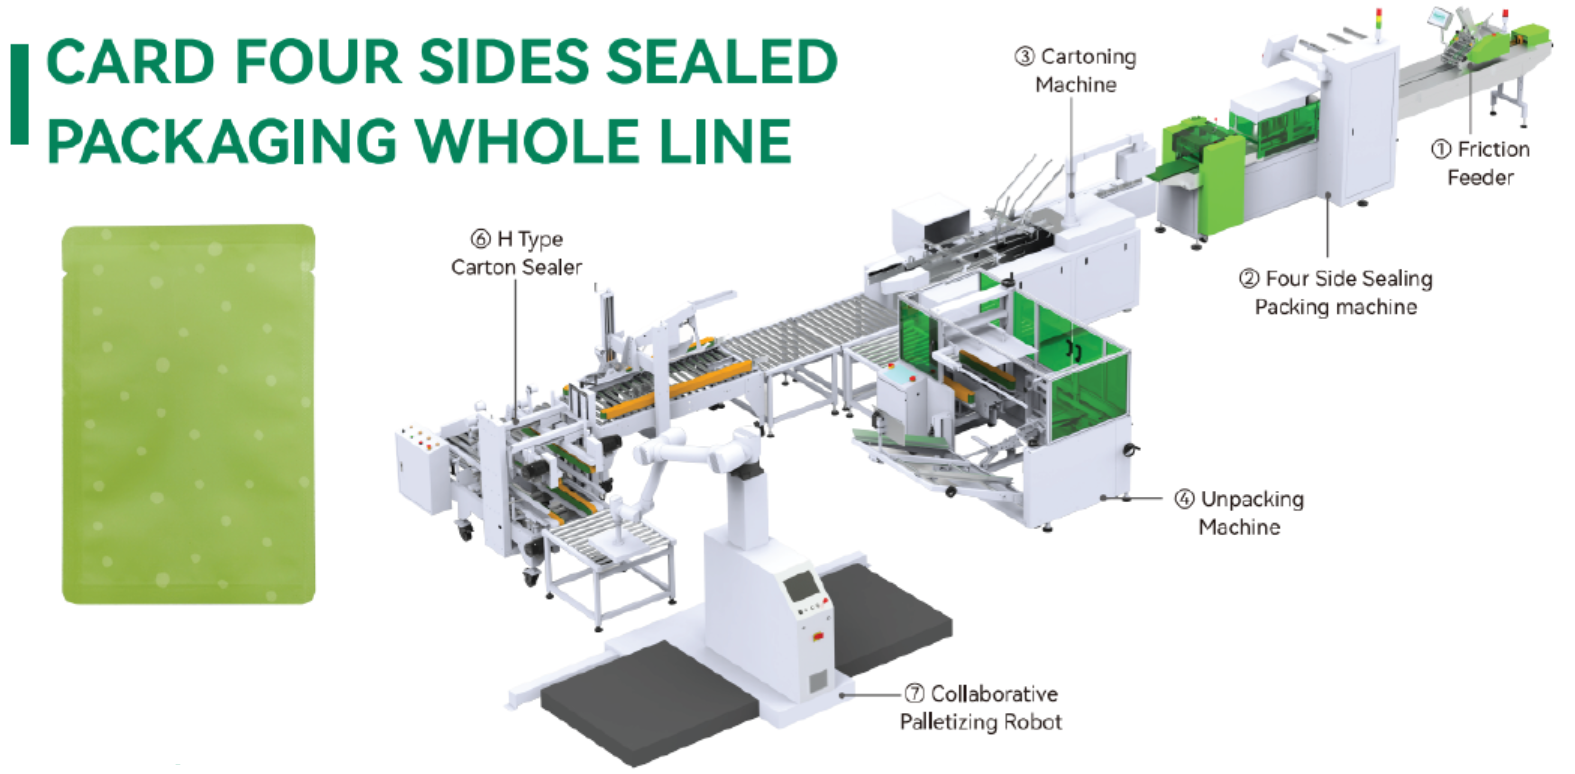
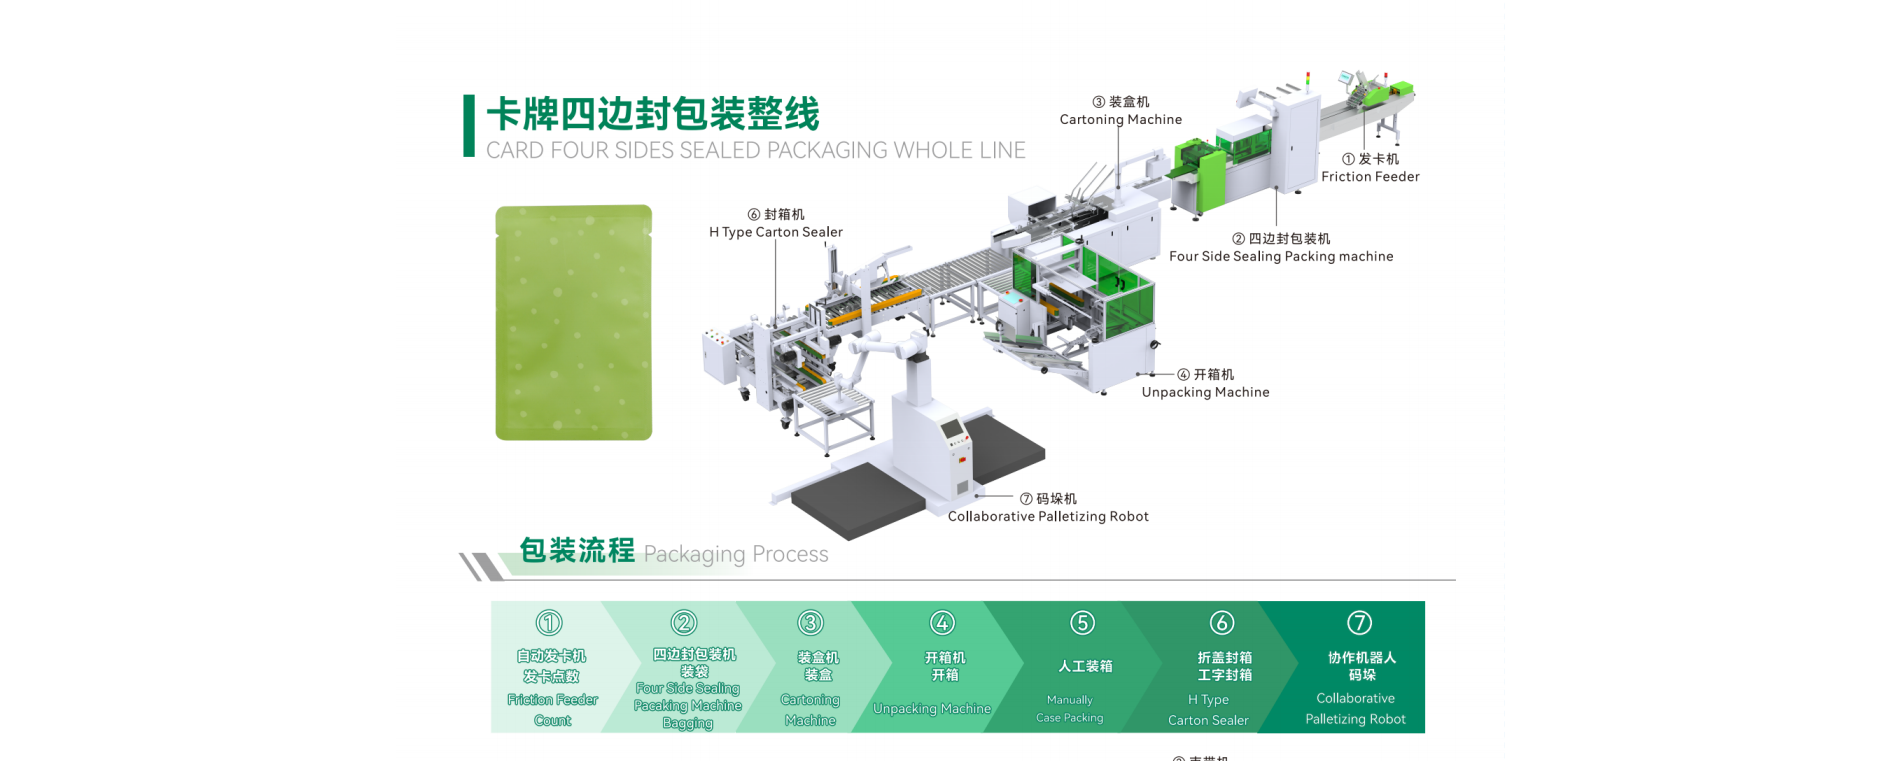
四边封图片更新：替换首页旧图并重命名详情页图以破缓存

diff --git a/app/[lang]/solutions/[slug]/SolutionDetailContent.tsx b/app/[lang]/solutions/[slug]/SolutionDetailContent.tsx
@@ -43,7 +43,7 @@ const packagingIcons: Record<string, React.ReactNode> = {
 const methodImages: Record<string, string> = {
   candy: "/images/solutions/detail/candy-packaging.png",
   "self-adhesive": "/images/solutions/detail/self-adhesive-strip.png",
-  "four-sides": "/images/solutions/detail/four-sides-sealed.png",
+  "four-sides": "/images/solutions/detail/four-sides-line.png",
   banding: "/images/solutions/detail/banding.png",
   "heat-shrink": "/images/solutions/detail/heat-shrink.png",
   "three-dimensional": "/images/solutions/detail/three-dimensional.png",

diff --git a/app/[lang]/solutions/SolutionsContent.tsx b/app/[lang]/solutions/SolutionsContent.tsx
@@ -34,7 +34,7 @@ const packagingIcons = [
 const methodImages = [
   "/images/solutions/detail/candy-packaging.png",
   "/images/solutions/detail/self-adhesive-strip.png",
-  "/images/solutions/detail/four-sides-sealed.png",
+  "/images/solutions/detail/four-sides-line.png",
   "/images/solutions/detail/banding.png",
   "/images/solutions/detail/heat-shrink.png",
   "/images/solutions/detail/three-dimensional.png",
